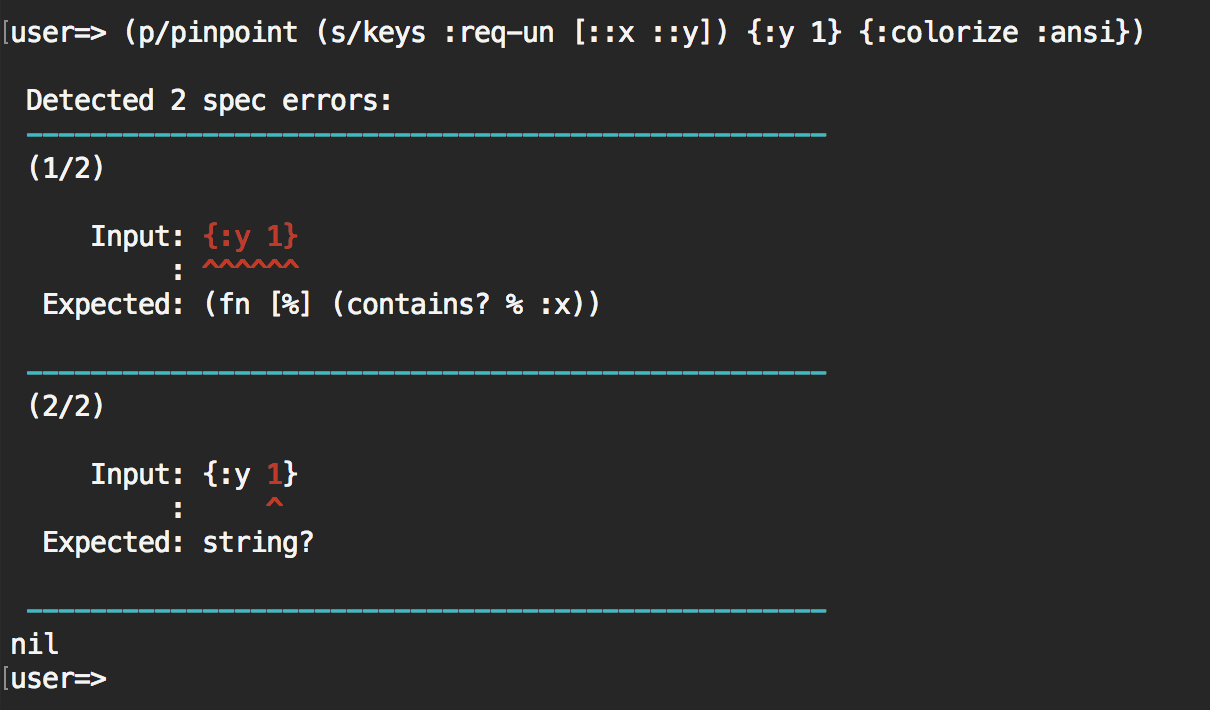
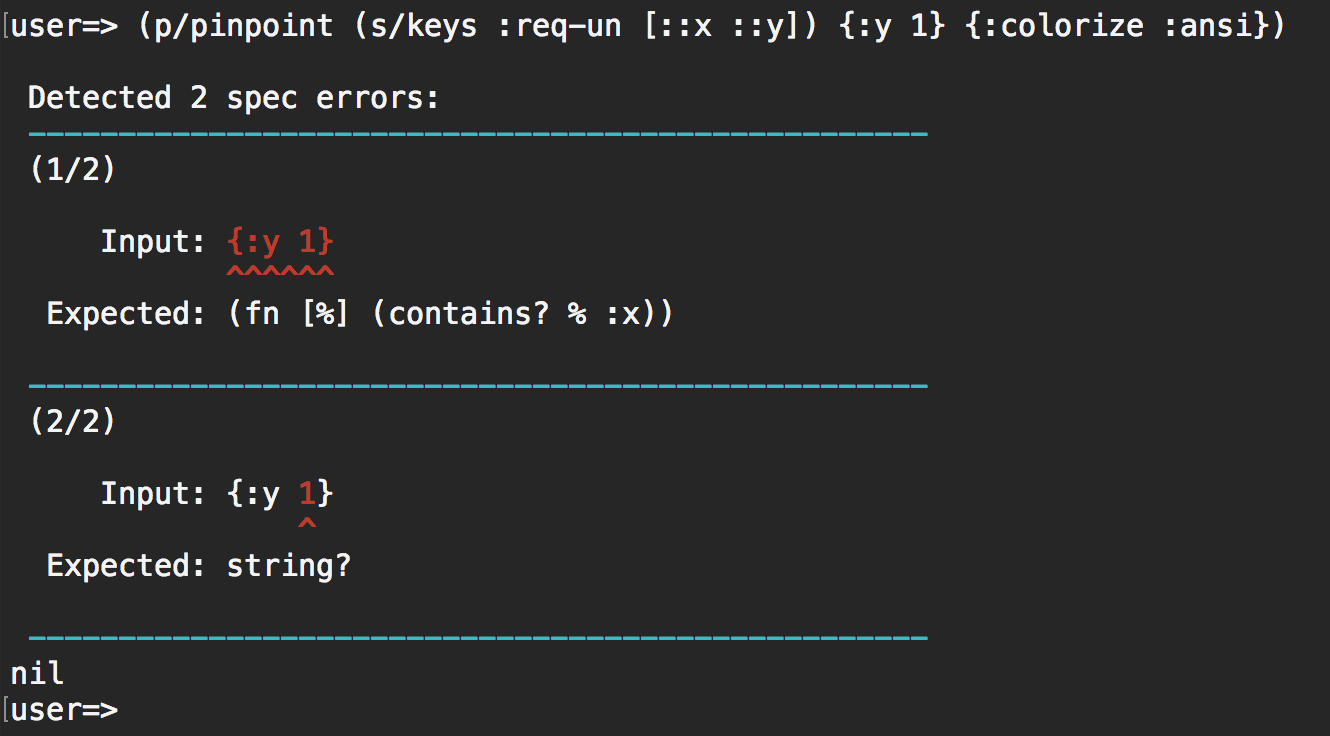
Update report layout in documents following actual reports

diff --git a/README.md b/README.md
@@ -47,14 +47,14 @@ nil
  (1/2)
 
      Input: {:y 1}
-          : ^^^^^^
+            ^^^^^^
   Expected: (fn [%] (contains? % :x))
 
  --------------------------------------------------
  (2/2)
 
      Input: {:y 1}
-          :     ^
+                ^
   Expected: string?
 
  --------------------------------------------------
@@ -95,7 +95,7 @@ ExceptionInfo Call to #'user/f did not conform to spec:
  (1/1)
 
      Input: (3)
-          :  ^
+             ^
   Expected: even?
 
  --------------------------------------------------
